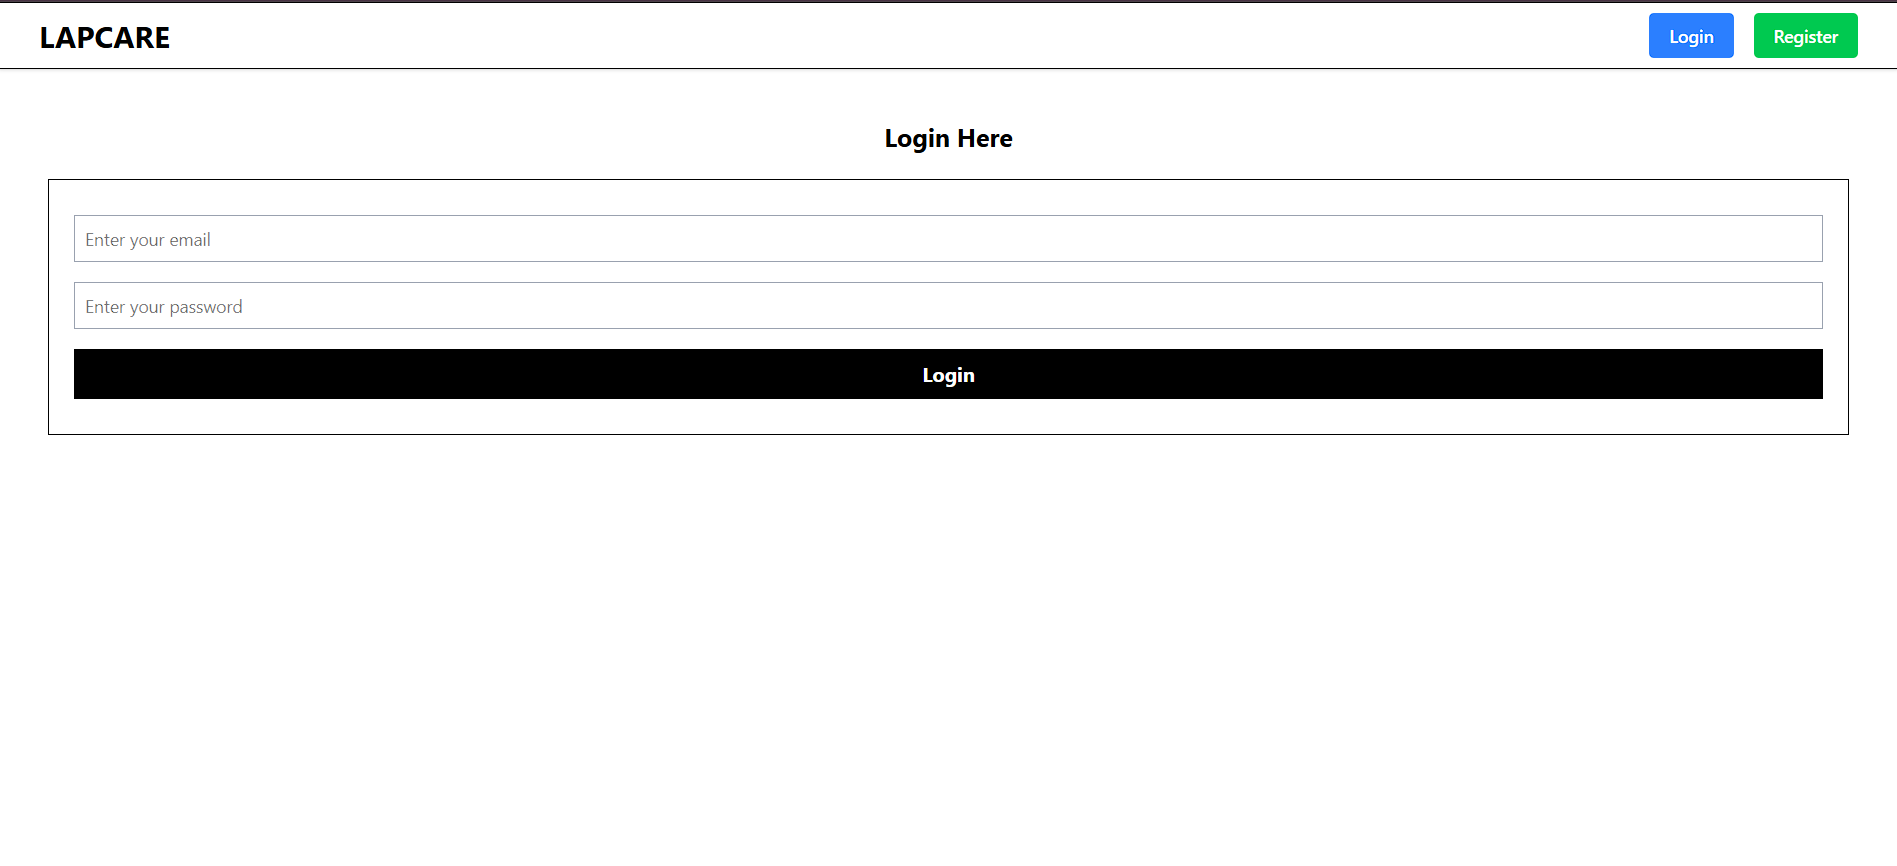
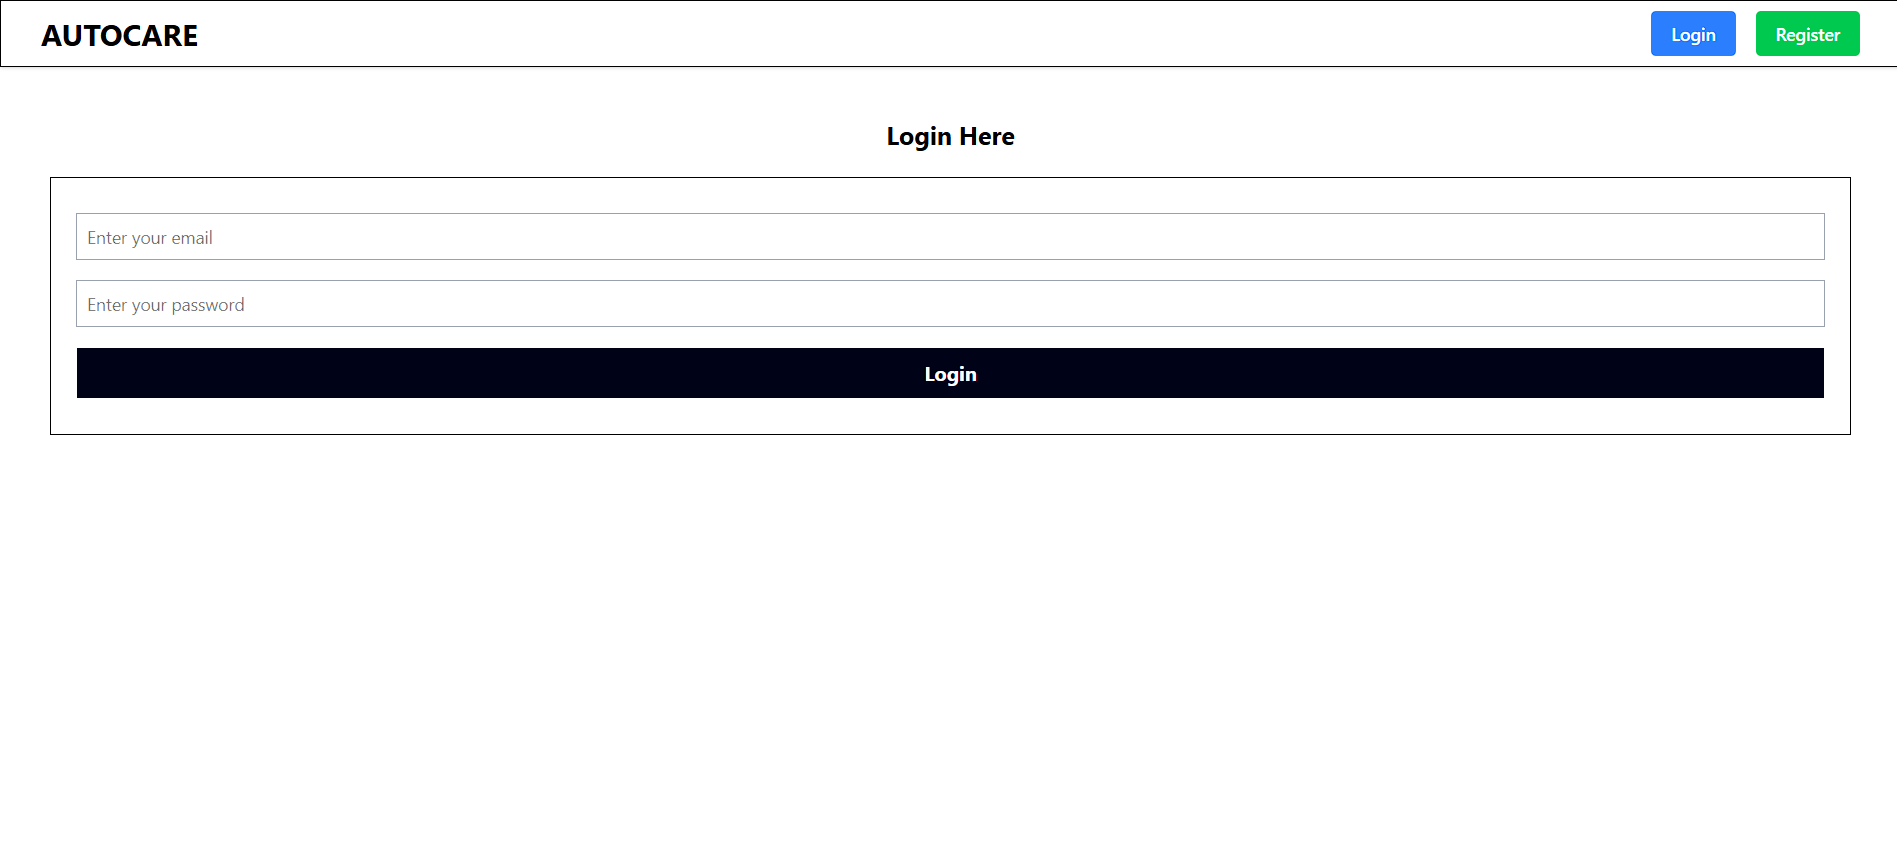
new commit

Changed region(s): [[0.0311, 0.125, 0.9642, 0.4375], [0.0, 0.0, 1.0, 0.0938]]

diff --git a/src/pages/Projects.jsx b/src/pages/Projects.jsx
@@ -216,16 +216,16 @@ const Projects = () => {
           />
         </div>
         <div className="md:w-1/2">
-          <h2 className="text-2xl md:text-3xl font-semibold mb-4">Full Stack Project: Lapcare</h2>
+          <h2 className="text-2xl md:text-3xl font-semibold mb-4">Full Stack Project: Autocare</h2>
           <p className="text-gray-400">
-            Lapcare is a full-stack project built using the MERN stack (MongoDB, Express.js,
+            Autocare is a full-stack project built using the MERN stack (MongoDB, Express.js,
             React.js, Node.js) and Tailwind CSS. It includes user authentication (login/register)
-            and allows users to raise complaints about their broken laptops, view their complaints,
+            and allows users to raise complaints about their cars, view their complaints,
             interact with admins via comments, and close complaints. Admins can view all users,
             manage complaints, reply to users, and close complaints.
           </p>
           <a
-            href="https://lapcare01.vercel.app/"
+            href="https://autocare01.vercel.app/"
             target="_blank"
             rel="noopener noreferrer"
            className="inline-block text-white py-2 px-4 text-sm md:text-lg hover:bg-transparent hover:border hover:border-white hover:opacity-90 duration-300 mt-5 w-full text-center hover:scale-105 font-semibold rounded-3xl bg-[#465697]"
